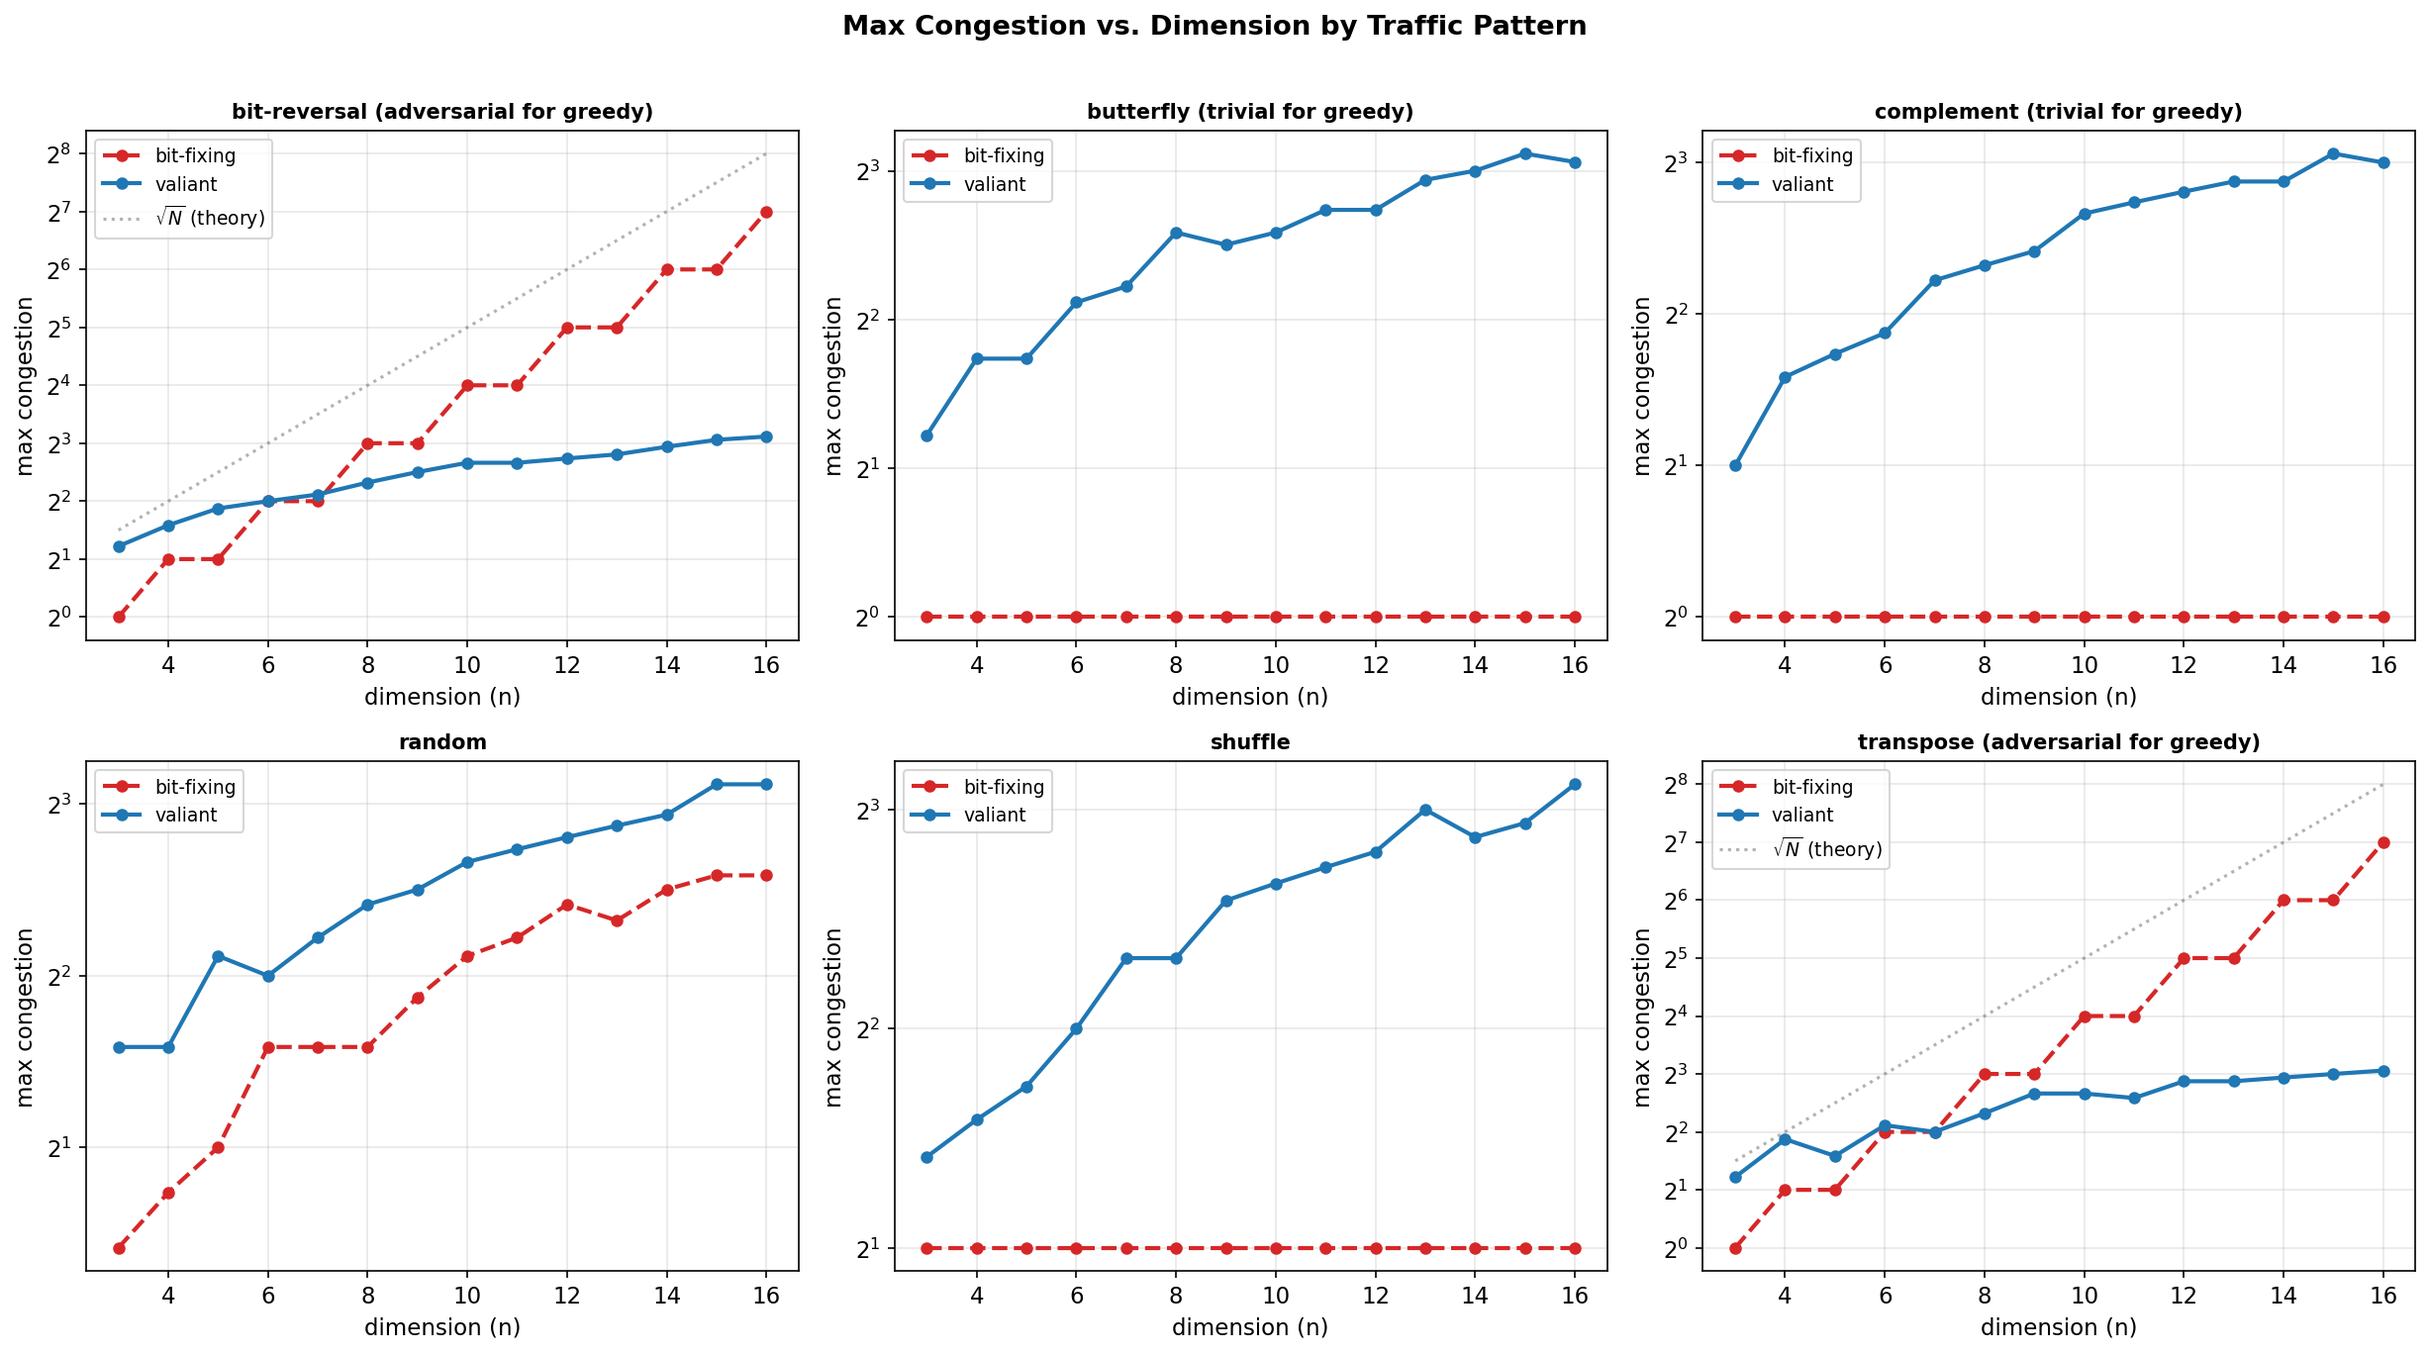
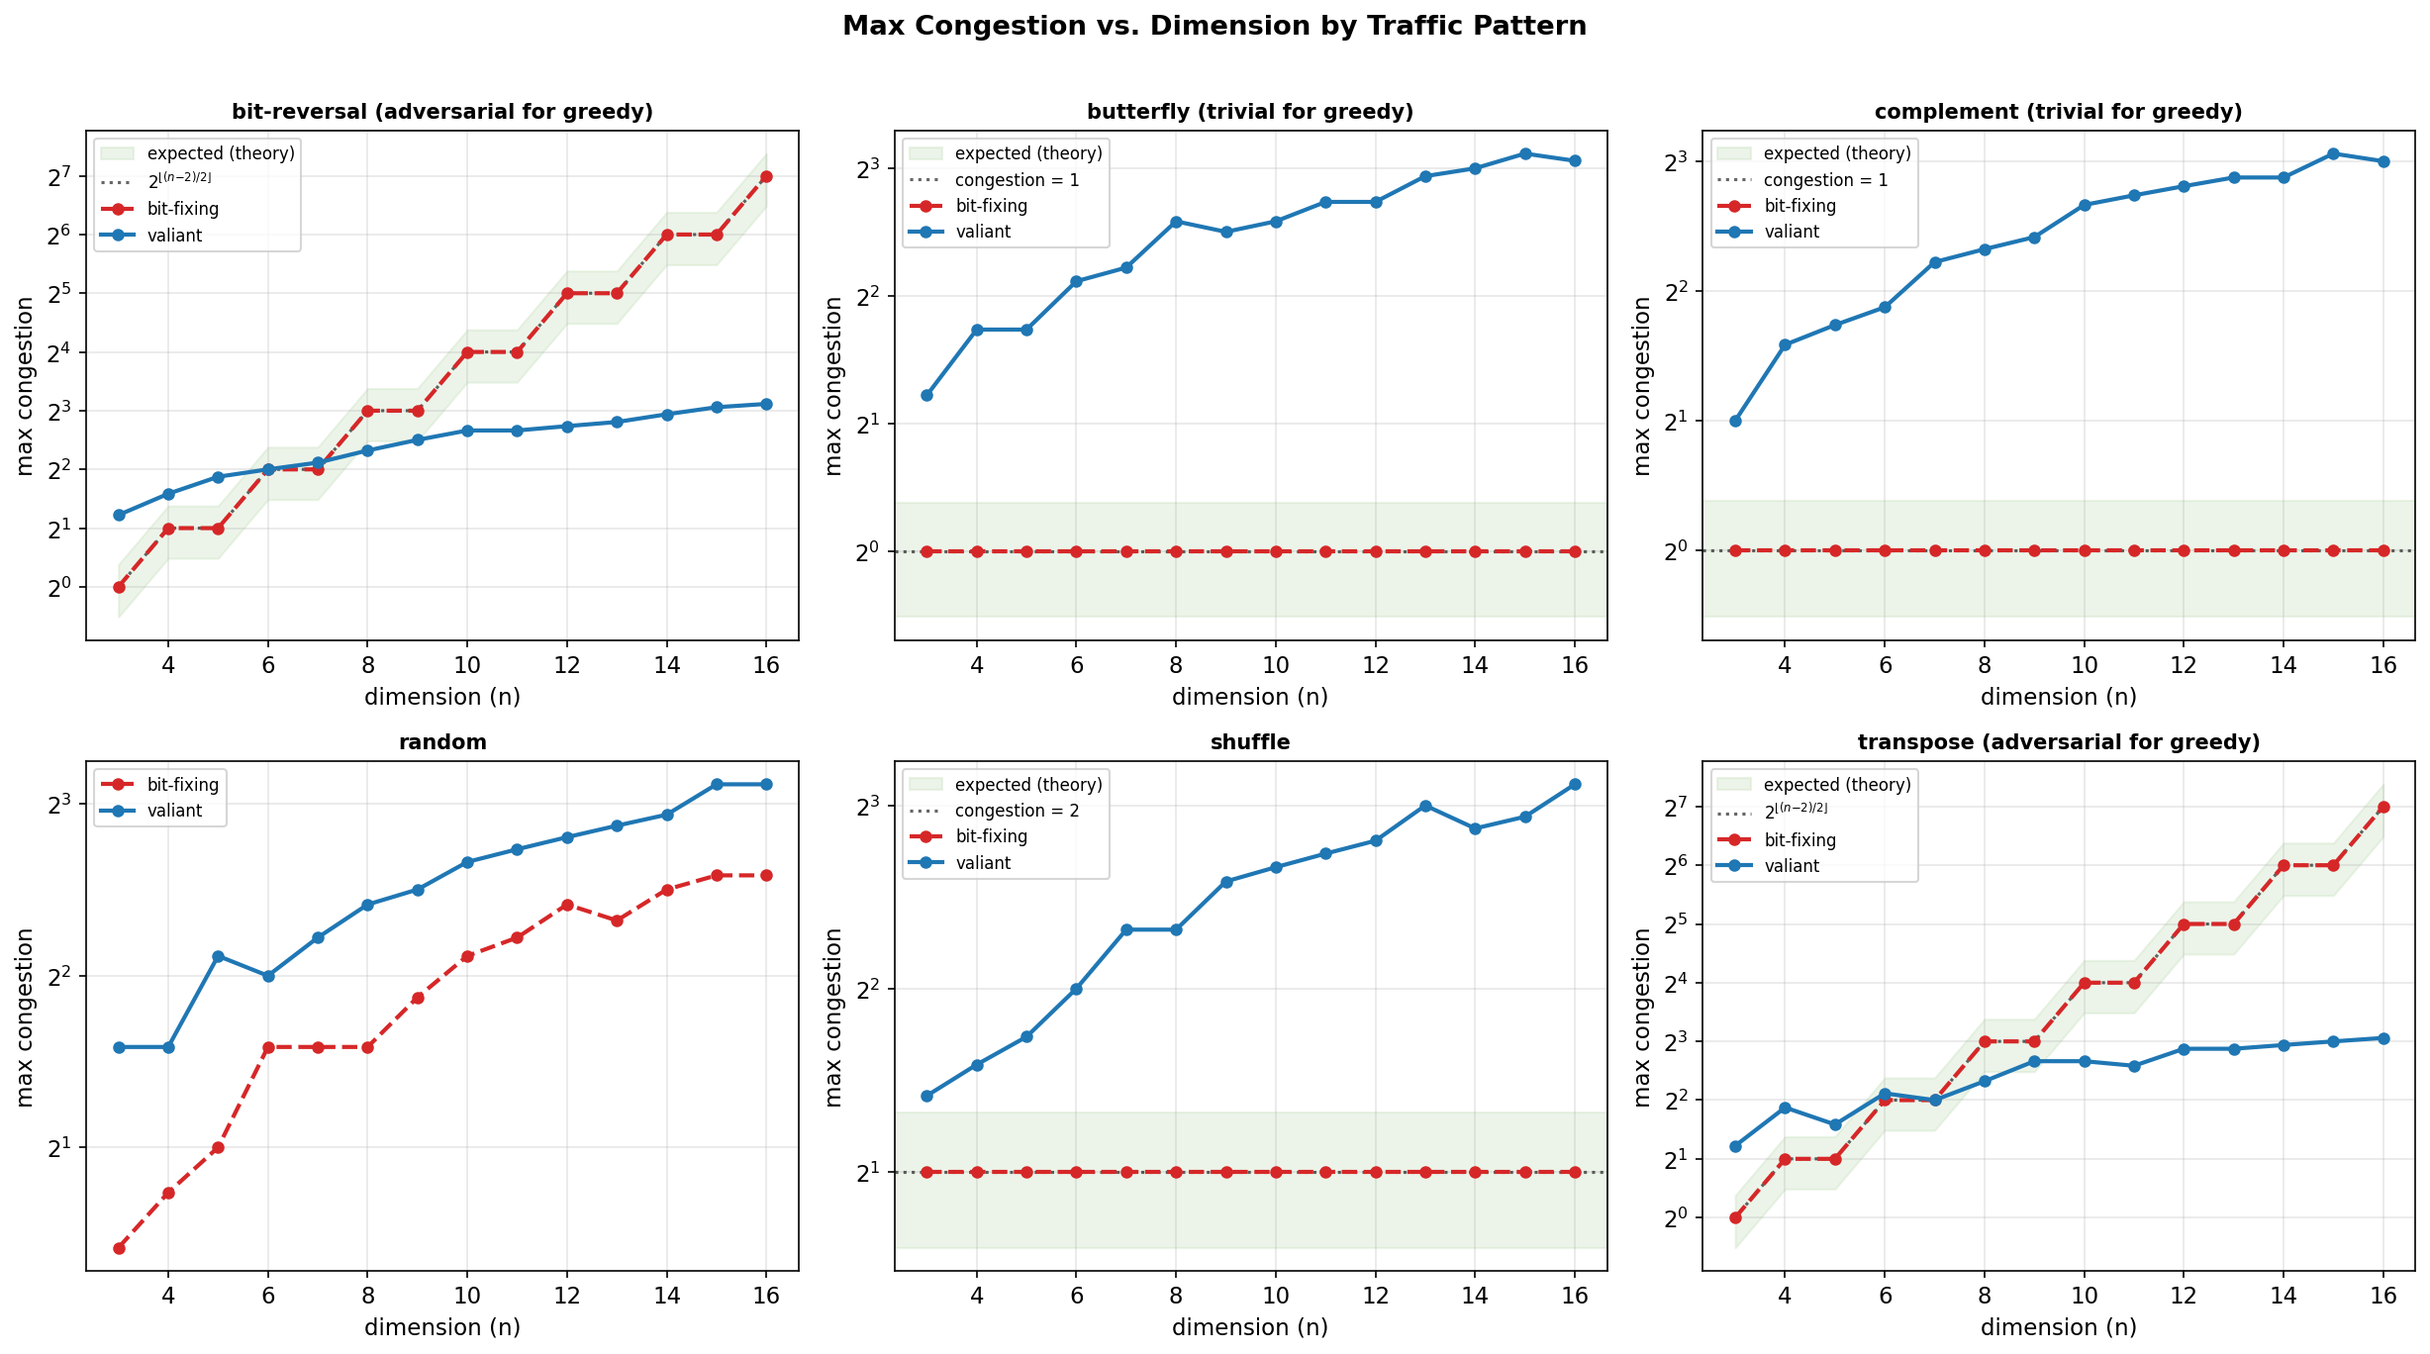
Update charts

diff --git a/scripts/plot.py b/scripts/plot.py
@@ -11,6 +11,7 @@ import math
 from pathlib import Path
 
 import matplotlib.pyplot as plt
+import numpy as np
 import pandas as pd
 
 STRATEGY_COLORS = {"bit-fixing": "#d62728", "valiant": "#1f77b4"}
@@ -24,10 +25,14 @@ TRAFFIC_MARKERS = {
     "random": "x",
 }
 
-# Patterns where bit-fixing hits Theta(sqrt(N)) worst case.
 ADVERSARIAL = {"bit-reversal", "transpose"}
-# Patterns where bit-fixing is trivially good (congestion ~1).
 EASY_FOR_GREEDY = {"complement", "butterfly"}
+
+# Shared reference line style: thin dotted black.
+REF_STYLE = dict(color="black", linestyle=":", linewidth=1.5, alpha=0.6)
+# Light green fill for "expected" theory regions.
+BAND_COLOR = "#b6d7a8"
+BAND_ALPHA = 0.25
 
 plt.rcParams.update(
     {
@@ -43,7 +48,6 @@ plt.rcParams.update(
 
 def load(path: str) -> pd.DataFrame:
     df = pd.read_csv(path)
-    # Average over runs per (dimension, strategy, traffic) group.
     grouped = (
         df.groupby(["dimension", "strategy", "traffic"])
         .agg(
@@ -64,11 +68,7 @@ def load(path: str) -> pd.DataFrame:
 
 
 def fully_delivered(df: pd.DataFrame) -> pd.DataFrame:
-    """Filter to only rows where all packets were delivered (delivery_rate >= 99.9%).
-
-    This removes tick-budget artifacts (e.g., shuffle at dim=16) that would
-    distort congestion and latency charts with meaningless queue-overflow numbers.
-    """
+    """Filter to only rows where all packets were delivered (delivery_rate >= 99.9%)."""
     return df[df["delivery_rate"] >= 0.999].copy()
 
 
@@ -88,6 +88,21 @@ def plot_congestion_scaling(df: pd.DataFrame, outdir: Path):
     for idx, traffic in enumerate(traffic_patterns):
         ax = axes[idx]
         subset = df[df["traffic"] == traffic]
+        dims = np.array(sorted(subset["dimension"].unique()))
+
+        # Green shaded band for expected bit-fixing congestion.
+        if traffic in ADVERSARIAL:
+            exact = np.array([2 ** ((d - 2) // 2) for d in dims])
+            # Band: 0.7x to 1.3x of theoretical (tight band around prediction).
+            ax.fill_between(dims, exact * 0.7, exact * 1.3,
+                            color=BAND_COLOR, alpha=BAND_ALPHA, label="expected (theory)")
+            ax.plot(dims, exact, **REF_STYLE, label=r"$2^{\lfloor(n{-}2)/2\rfloor}$")
+        elif traffic == "shuffle":
+            ax.axhspan(1.5, 2.5, color=BAND_COLOR, alpha=BAND_ALPHA, label="expected (theory)")
+            ax.axhline(2, **REF_STYLE, label="congestion = 2")
+        elif traffic in EASY_FOR_GREEDY:
+            ax.axhspan(0.7, 1.3, color=BAND_COLOR, alpha=BAND_ALPHA, label="expected (theory)")
+            ax.axhline(1, **REF_STYLE, label="congestion = 1")
 
         for strategy in ["bit-fixing", "valiant"]:
             s = subset[subset["strategy"] == strategy].sort_values("dimension")
@@ -104,19 +119,6 @@ def plot_congestion_scaling(df: pd.DataFrame, outdir: Path):
                 linewidth=2,
             )
 
-        # Theoretical sqrt(N) reference line for adversarial patterns.
-        if traffic in ADVERSARIAL:
-            dims = sorted(subset["dimension"].unique())
-            sqrt_n = [2 ** (d / 2) for d in dims]
-            ax.plot(
-                dims,
-                sqrt_n,
-                color="gray",
-                linestyle=":",
-                alpha=0.6,
-                label=r"$\sqrt{N}$ (theory)",
-            )
-
         subtitle = ""
         if traffic in ADVERSARIAL:
             subtitle = " (adversarial for greedy)"
@@ -126,9 +128,8 @@ def plot_congestion_scaling(df: pd.DataFrame, outdir: Path):
         ax.set_xlabel("dimension (n)")
         ax.set_ylabel("max congestion")
         ax.set_yscale("log", base=2)
-        ax.legend(fontsize=9)
+        ax.legend(fontsize=8)
 
-    # Hide unused subplots.
     for idx in range(len(traffic_patterns), len(axes)):
         axes[idx].set_visible(False)
 
@@ -148,6 +149,23 @@ def plot_strategy_comparison(df: pd.DataFrame, outdir: Path):
         ("valiant", ax2, "Valiant (Randomized)"),
     ]:
         subset = df[df["strategy"] == strategy]
+        dims = np.array(sorted(subset["dimension"].unique()))
+
+        # Theory shading.
+        if strategy == "bit-fixing":
+            exact = np.array([2 ** ((d - 2) // 2) for d in dims])
+            ax.fill_between(dims, exact * 0.7, exact * 1.3,
+                            color=BAND_COLOR, alpha=BAND_ALPHA,
+                            label=r"$2^{\lfloor(n{-}2)/2\rfloor}$ band")
+            ax.plot(dims, exact, **REF_STYLE, label=r"$2^{\lfloor(n{-}2)/2\rfloor}$")
+        else:
+            # Valiant congestion tracks ~n/2 empirically.
+            half = dims / 2
+            ax.fill_between(dims, half, half + 2,
+                            color=BAND_COLOR, alpha=BAND_ALPHA,
+                            label="n/2 band")
+            ax.plot(dims, half, **REF_STYLE, label="n/2")
+
         for traffic in sorted(subset["traffic"].unique()):
             t = subset[subset["traffic"] == traffic].sort_values("dimension")
             ax.plot(
@@ -163,7 +181,7 @@ def plot_strategy_comparison(df: pd.DataFrame, outdir: Path):
         ax.set_xlabel("dimension (n)")
         ax.set_ylabel("max congestion")
         ax.set_yscale("log", base=2)
-        ax.legend(fontsize=9)
+        ax.legend(fontsize=8)
 
     fig.suptitle(
         "Congestion Scaling: Greedy vs. Randomized Routing\n"
@@ -177,16 +195,24 @@ def plot_strategy_comparison(df: pd.DataFrame, outdir: Path):
 
 
 def plot_latency_vs_hops(df: pd.DataFrame, outdir: Path):
-    """Average latency vs. average hops — shows pipelining and queuing effects."""
+    """Average latency vs. average hops — shows pipelining effect."""
     df = fully_delivered(df)
     fig, (ax1, ax2) = plt.subplots(1, 2, figsize=(14, 6))
 
-    # Left: bit-fixing. Right: Valiant.
     for strategy, ax, title in [
         ("bit-fixing", ax1, "Bit-Fixing"),
         ("valiant", ax2, "Valiant"),
     ]:
         subset = df[df["strategy"] == strategy]
+        max_h = subset["avg_hops"].max() * 1.1
+
+        # Green band: the empirical ratio is ~0.53-0.60 hops.
+        h = np.linspace(0, max_h, 100)
+        ax.fill_between(h, h * 0.50, h * 0.62,
+                        color=BAND_COLOR, alpha=BAND_ALPHA,
+                        label="expected range")
+        ax.plot(h, h * 0.56, **REF_STYLE, label="latency $\\approx$ 0.56 $\\times$ hops")
+
         for traffic in sorted(subset["traffic"].unique()):
             t = subset[subset["traffic"] == traffic].sort_values("dimension")
             ax.scatter(
@@ -197,7 +223,6 @@ def plot_latency_vs_hops(df: pd.DataFrame, outdir: Path):
                 alpha=0.8,
                 label=traffic,
             )
-            # Connect points with a thin line to show progression.
             ax.plot(t["avg_hops"], t["avg_latency"], alpha=0.3, linewidth=1)
 
         ax.set_xlim(left=-0.5)
@@ -209,7 +234,7 @@ def plot_latency_vs_hops(df: pd.DataFrame, outdir: Path):
 
     fig.suptitle(
         "Latency vs. Hops\n"
-        "(synchronous model: packets traverse ~2 hops/tick via pipelining)",
+        "(synchronous pipelining: packets traverse ~1.8 hops/tick)",
         fontweight="bold",
         y=1.02,
     )
@@ -228,6 +253,23 @@ def plot_hop_distribution(df: pd.DataFrame, outdir: Path):
         ("valiant", ax2, "Valiant (Randomized)"),
     ]:
         subset = df[df["strategy"] == strategy]
+        dims = np.array(sorted(subset["dimension"].unique()))
+
+        if strategy == "bit-fixing":
+            # Most patterns cluster between 1 and n. Shade n/2 band.
+            ax.fill_between(dims, dims * 0.35, dims * 0.65,
+                            color=BAND_COLOR, alpha=BAND_ALPHA,
+                            label="n/2 band")
+            ax.plot(dims, dims / 2, **REF_STYLE, label="n/2")
+            ax.plot(dims, dims, color="black", linestyle="--",
+                    linewidth=1.2, alpha=0.35, label="n (all dims)")
+        else:
+            # Valiant: all patterns converge to ~n hops.
+            ax.fill_between(dims, dims * 0.85, dims * 1.05,
+                            color=BAND_COLOR, alpha=BAND_ALPHA,
+                            label="~n band")
+            ax.plot(dims, dims, **REF_STYLE, label="n (two n/2 phases)")
+
         for traffic in sorted(subset["traffic"].unique()):
             t = subset[subset["traffic"] == traffic].sort_values("dimension")
             ax.plot(
@@ -239,21 +281,10 @@ def plot_hop_distribution(df: pd.DataFrame, outdir: Path):
                 linewidth=1.8,
             )
 
-        # Theoretical reference: n/2 average hops for random routing.
-        dims = sorted(subset["dimension"].unique())
-        ax.plot(
-            dims,
-            [d / 2 for d in dims],
-            color="gray",
-            linestyle=":",
-            alpha=0.6,
-            label="n/2 (expected random)",
-        )
-
         ax.set_title(title, fontweight="bold")
         ax.set_xlabel("dimension (n)")
         ax.set_ylabel("avg hops")
-        ax.legend(fontsize=9)
+        ax.legend(fontsize=8)
 
     fig.suptitle(
         "Average Hop Count vs. Dimension\n"

diff --git a/README.md b/README.md
@@ -187,21 +187,21 @@ Some observations from the data that connect back to the classical results.
 
 ### Why sqrt(N) congestion?
 
-Consider bit-reversal on a 16-cube. Node `0000000011111111` sends to `1111111100000000`. Under MSB-first bit-fixing, the packet first flips bit 15, then bit 14, ..., then bit 0. The key insight is that **all packets whose source and destination differ on bit k must cross the same set of dimension-k edges** in the same direction. For bit-reversal, bit k is flipped whenever source bit k differs from source bit (n-1-k). At the "middle" dimensions (around k = n/2), roughly sqrt(N) packets funnel through the same edge -- this is the bottleneck that creates the Theta(sqrt(N)) bound.
+Consider bit-reversal on a 16-cube. Node `0000000011111111` sends to `1111111100000000`. Under MSB-first bit-fixing, the packet first flips bit 15, then bit 14, ..., then bit 0. The key insight is that **all packets whose source and destination differ on bit k must cross the same set of dimension-k edges** in the same direction. For bit-reversal, bit k is flipped whenever source bit k differs from source bit (n-1-k). At the "middle" dimensions (around k = n/2), many packets funnel through the same edge -- this is the bottleneck that creates the Theta(sqrt(N)) bound.
 
-Our data shows max_congestion exactly tracks 2^(floor((d-2)/2)) for dimensions 3--16, which is sqrt(N)/2. The factor of 2 comes from MSB-first ordering splitting the bottleneck across two adjacent dimensions.
+Our data shows max_congestion exactly tracks 2^(floor((d-2)/2)) for dimensions 3--16. For even n this equals sqrt(N)/2; for odd n it's sqrt(N)/(2*sqrt(2)). The exact progression is: 1, 2, 2, 4, 4, 8, 8, 16, 16, 32, 32, 64, 64, 128 for dims 3--16.
 
 ### Why complement has congestion 1
 
-The complement permutation (node x sends to NOT(x)) flips every bit. Under bit-fixing, every packet takes the exact same path structure: flip bits 0, 1, 2, ..., n-1 in order. Because the permutation is the bitwise complement, each dimension-k edge carries exactly one packet per node pair in a given direction. No edge is shared, so congestion is 1 regardless of dimension. The per-dimension load is exactly N for every dimension -- perfectly uniform.
+The complement permutation (node x sends to NOT(x)) flips every bit. Under MSB-first bit-fixing, every packet traverses all n dimensions. The total per-dimension load is N (every packet crosses every dimension). Each dimension has N directed edges (one per node), so the average per-edge load is N/N = 1. In fact the maximum is also 1: complement is a perfect matching on every dimension cut, so no directed edge carries more than one packet. This gives max_congestion = 1 regardless of dimension.
 
 ### The Valiant tradeoff in numbers
 
 Valiant's two-phase routing sends each packet to a uniformly random intermediate node before routing to the true destination. This guarantees O(n) congestion on *any* permutation -- our data confirms max_congestion of 8--9 at dim=16 across all six traffic patterns.
 
-The cost is path length. Bit-fixing on bit-reversal averages n/2 hops; Valiant averages n (the expected Hamming distance of two random nodes is n/2 per phase, times two phases). For "easy" patterns like butterfly (1 hop with bit-fixing), Valiant inflates to n hops -- a 16x penalty at dim=16 for no congestion benefit.
+The cost is path length. Bit-fixing on bit-reversal averages floor(n/2) hops; Valiant averages ~n (the expected Hamming distance of two random nodes is n/2 per phase, times two phases). For "easy" patterns like butterfly (1 hop with bit-fixing), Valiant inflates to ~n hops -- a 16x penalty at dim=16 for no congestion benefit.
 
-The crossover where Valiant becomes worthwhile is visible in the congestion scaling charts around dim 5--7 for adversarial patterns. Below that, bit-fixing's sqrt(N) is still small enough to beat Valiant's constant overhead.
+The crossover where Valiant becomes worthwhile is visible in the congestion scaling charts around dim 6--8 for adversarial patterns. Valiant first beats bit-fixing at dim=6 (congestion 3 vs. 4). Below that, bit-fixing's congestion is still small enough to beat Valiant's constant overhead.
 
 ### Odd-dimension fixed points
 
@@ -209,7 +209,7 @@ For odd n, the bit-reversal permutation has a fixed point at the middle bit (bit
 
 ### Shuffle is surprisingly well-behaved
 
-The perfect shuffle (circular left-shift of the address) might seem like it would create congestion -- it touches every bit position. But our data shows max_congestion = 2 for bit-fixing across all dimensions 3--16. The reason: shuffle is a *rotation* of bit positions, not a reversal. Each bit moves to an adjacent position, so the routing paths are short and well-distributed. The per-dimension load is exactly N/2 for every dimension, evenly split. This makes shuffle a "middle ground" pattern -- it exercises the full network but doesn't create the funneling bottleneck that bit-reversal does.
+The perfect shuffle (circular left-shift of the address) averages n/2 hops per packet, so individual packets don't touch all dimensions. But our data shows max_congestion = 2 for bit-fixing across all dimensions 3--16. The reason: shuffle distributes load with remarkable uniformity. The per-dimension load is exactly N/2 for every dimension -- every dimension carries exactly the same total traffic. With N/2 packets spread across N/2 directed edges per dimension, the average per-edge load is 1, and the maximum is 2. Unlike bit-reversal, the rotation structure avoids funneling packets through a bottleneck at the middle dimensions.
 
 ## Related work
 
